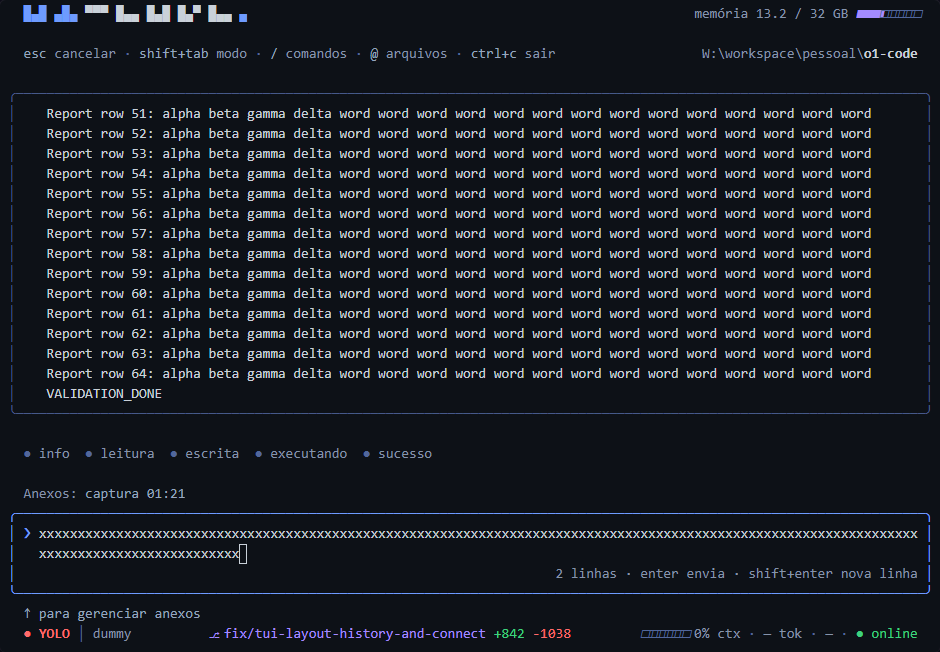
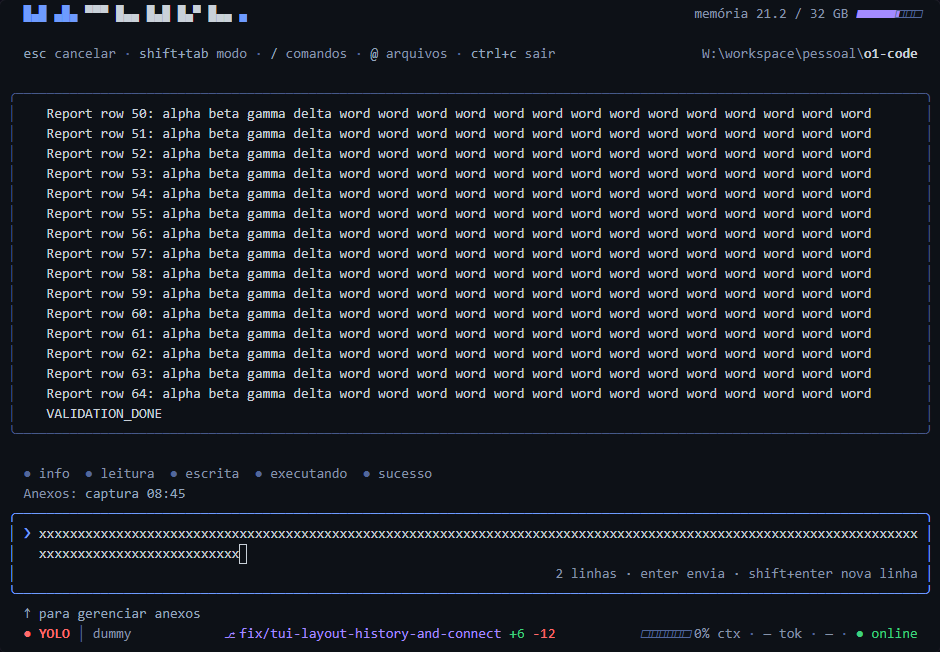
Fix TUI: remove the extra separator below activity indicators
Keep the composer's single separator above the activity row and place the prompt
border immediately below it, reclaiming one terminal row. Align the design guide
and unreleased changelog with the more compact layout.

Validation:
- npm run build -- --cli-only
- npm run bundle
- npm run typecheck
- npx eslint packages/cli/src/ui/components/ActivityLine.tsx packages/cli/src/ui/components/ActivityLine.test.tsx --max-warnings 0
- npx prettier --check CHANGELOG.md docs/guides/TUI-DESIGN.md
- From packages/cli: npx vitest run --coverage.enabled=false src/ui/components/ActivityLine.test.tsx src/ui/components/Composer.test.tsx
- TUI_WIDTHS=80,120 npx tsx --tsconfig tsconfig.json ops/tui-validation.ts
- node scripts/o1/smoke.mjs
- node scripts/o1/check-guides.mjs

36 scoped tests passed. The full product suite was not run. Actual application
screens verify no blank row between the activity indicators and prompt border,
with exactly one separator above the indicators at both terminal widths.

diff --git a/packages/cli/src/ui/components/ActivityLine.test.tsx b/packages/cli/src/ui/components/ActivityLine.test.tsx
@@ -149,11 +149,8 @@ describe('ActivityLine', () => {
         </UIStateContext.Provider>
       </Box>,
     );
-    // The indicators themselves stay on one row; the second row is the
-    // blank separator the line adds above the input.
     const rows = frame.split('\n');
-    expect(rows).toHaveLength(2);
-    expect(rows[1].trim()).toBe('');
+    expect(rows).toHaveLength(1);
   });
 });
 

diff --git a/packages/cli/src/ui/components/ActivityLine.tsx b/packages/cli/src/ui/components/ActivityLine.tsx
@@ -130,9 +130,6 @@ export const ActivityLine: React.FC = () => {
       width="100%"
       paddingX={sideMargin(tier)}
       justifyContent="space-between"
-      // One blank row below the chips: right above the input they read as
-      // part of the box rather than as the conversation's status.
-      marginBottom={1}
     >
       <Box flexShrink={1} minWidth={0}>
         <ActivityChips

diff --git a/docs/guides/TUI-DESIGN.md b/docs/guides/TUI-DESIGN.md
@@ -144,9 +144,9 @@ Top to bottom, in full-screen mode:
 2. **Conversation** (`components/ConversationWell.tsx`): a box in `rule` colour taking all free
    height, so its border reaches the input even when the history is short. Under the history, the
    thinking line, separated by one blank row and marked with the queued arrow; at the bottom, the queue.
-3. **Activity line** (`components/ActivityLine.tsx`), one blank row above the
-   input: the chips are the conversation's status, and glued to the input's
-   border they read as part of the box.
+3. **Activity line** (`components/ActivityLine.tsx`), directly above the input
+   border. The composer's single blank row separates it from the conversation;
+   there is no additional blank row below the chips.
 4. **Input** (`components/InputPrompt.tsx`, `BaseTextInput.tsx`).
 5. **Footer** (`components/Footer.tsx`, `footer-zones.tsx`).
 

diff --git a/CHANGELOG.md b/CHANGELOG.md
@@ -9,8 +9,8 @@ follows [Semantic Versioning](https://semver.org/spec/v2.0.0.html).
 
 ### Changed
 
-- The activity chips sit one blank row above the input box, so they read as the
-  conversation's status instead of as part of the box.
+- The activity chips sit directly above the input box, with a single blank row
+  separating them from the conversation instead of blank rows on both sides.
 - Attachments above the input show one per row, aligned under the label. A
   screenshot pasted from the clipboard shows the time it was taken
   (`screenshot 17:12`) instead of its generated
